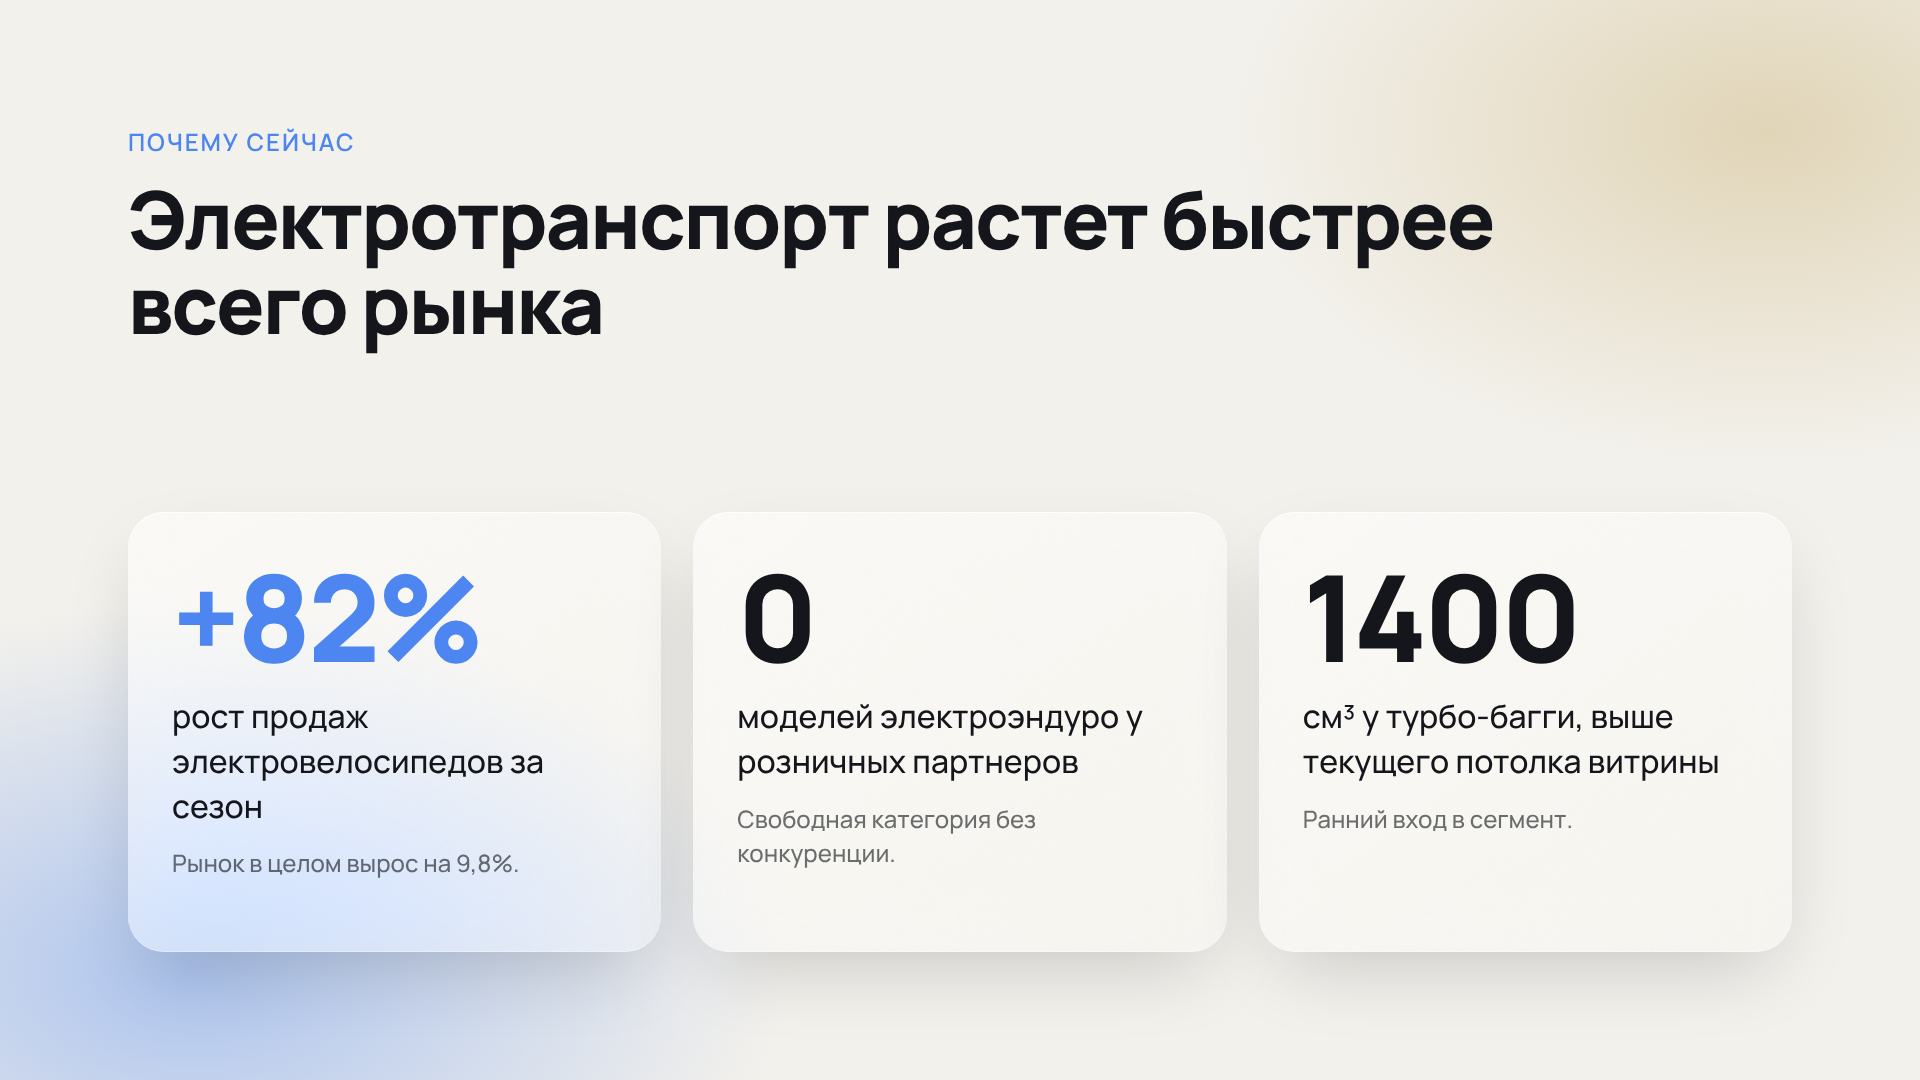
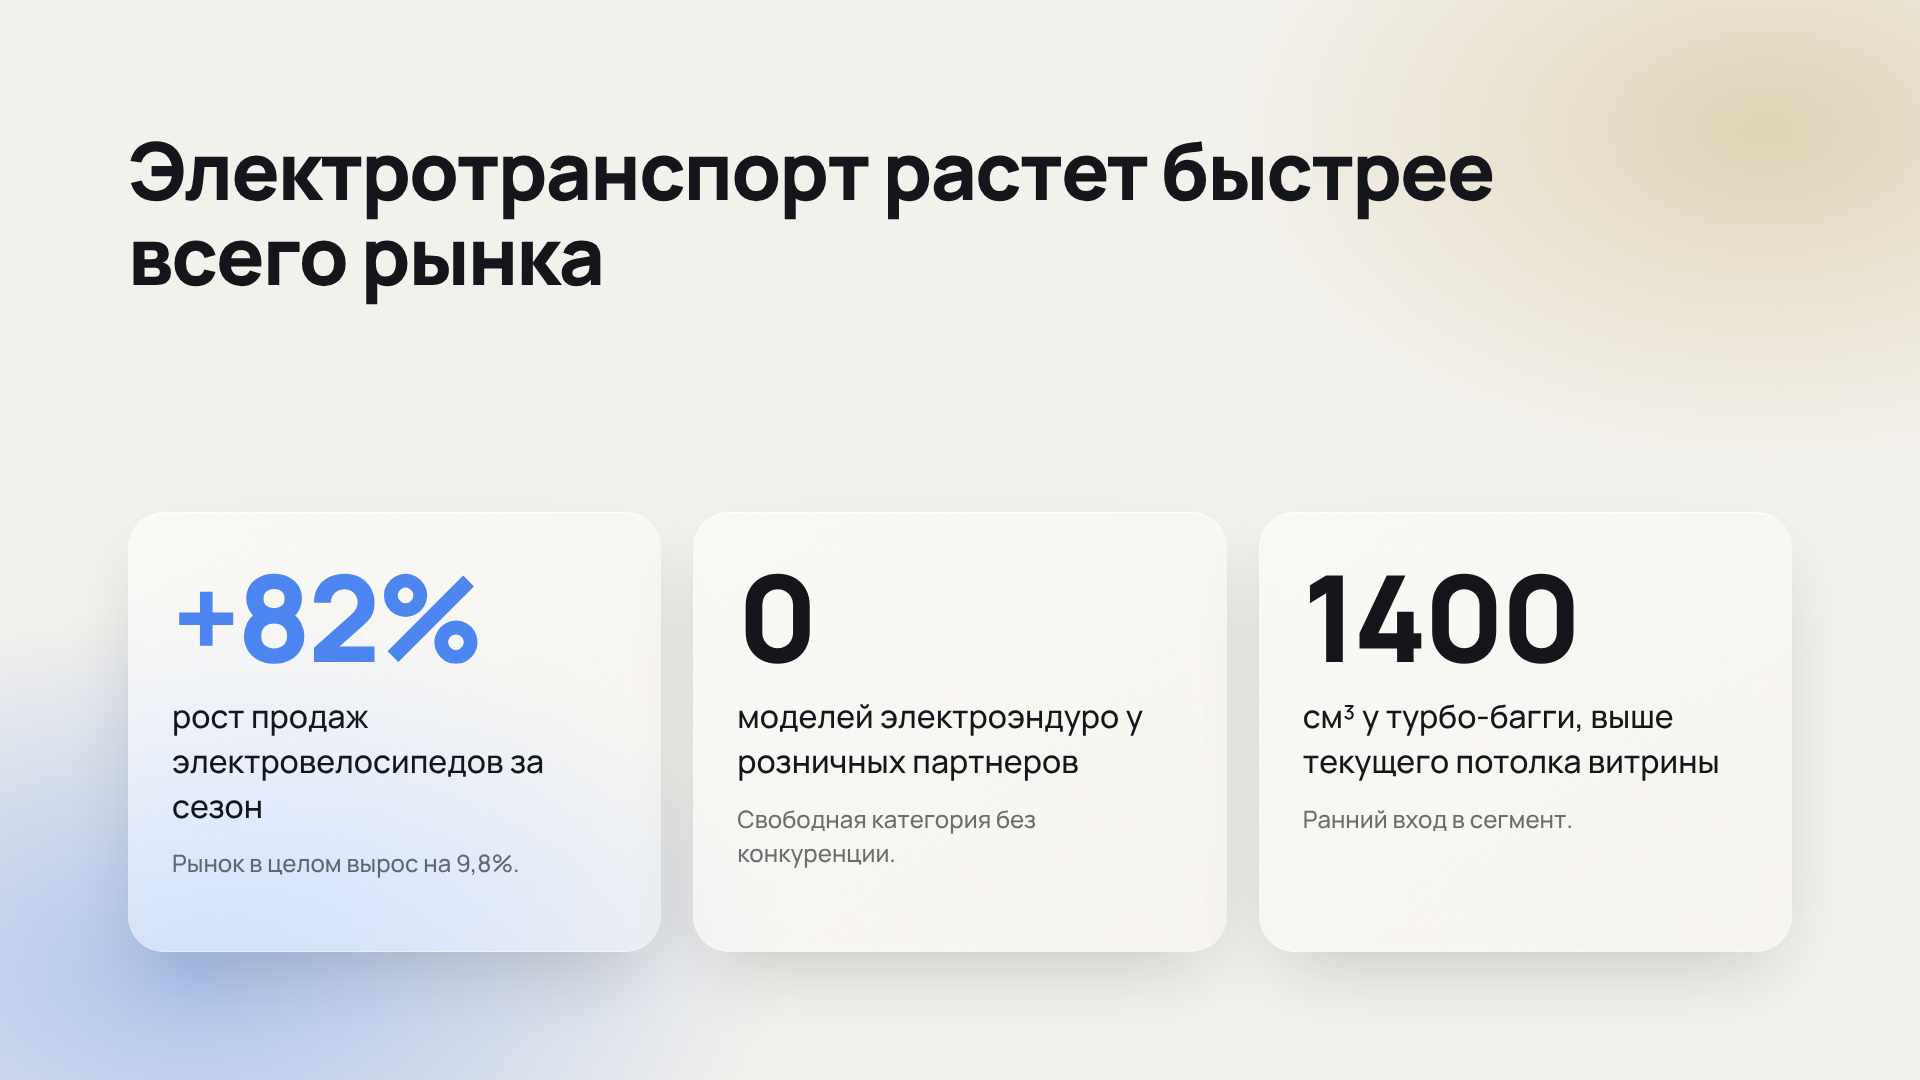
Референсы, правила против шаблонных приемов, проверка подписей капсом и строк через точки
Claude-Session: https://claude.ai/code/session_01EVK6ayWua7MPS1fDjw5zfW

Changed region(s): [[0.0625, 0.1222, 0.7812, 0.3361]]

diff --git a/examples/deck.html b/examples/deck.html
@@ -60,7 +60,6 @@
 <!-- 2. Метрики: три стеклянные карточки над цветной сеткой -->
 <section class="slide slide--light mesh-light metrics">
   <div>
-    <p class="label accent" style="margin-bottom:20px">Почему сейчас</p>
     <h2 class="h1" style="max-width:1400px">Электротранспорт растет быстрее всего рынка</h2>
   </div>
   <div class="cards">
@@ -74,7 +73,7 @@
 <section class="slide slide--dark mesh-dark product">
   <div class="pic" data-bleed><img class="photo" style="border-radius:0 var(--radius-outer) var(--radius-outer) 0" src="sample.jpg" alt="NICOT Z3"></div>
   <div class="glass panel">
-    <p class="label accent-soft">Городской электромотоцикл</p>
+    <p class="small muted-dark">Городской электромотоцикл</p>
     <h2 class="h1" style="font-size:64px">NICOT Z3</h2>
     <div class="body">
       <div class="spec"><span class="muted-dark">Мощность</span><span class="num">8,7&nbsp;кВт</span></div>

diff --git a/docs/references.md b/docs/references.md
@@ -1,0 +1,36 @@
+# Визуальные референсы и сборки
+
+Подобрано 9 октября 2026. Критерий: небольшие по размеру (текст, мелкий CSS/HTML),
+без сборки и тяжелых зависимостей. Читать целиком не нужно: берем по одному-два файла.
+
+## Брать (легкие)
+
+| Источник | Вес | Что взять |
+|---|---|---|
+| [anthropics/skills: frontend-design](https://github.com/anthropics/skills/blob/main/skills/frontend-design/SKILL.md) | один SKILL.md | Список признаков "сделано нейросетью": подпись капсом над каждым заголовком, строки через точки, градиентные заливки как декор, одинаковые карточки. Принцип: одна запоминающаяся деталь, остальное тихо. Уже учтено в анти-паттернах 21-27 |
+| [jiji262/claude-design-skill](https://github.com/jiji262/claude-design-skill) | markdown, 9 справочников, 6 стартовых HTML, MIT | Готовый `deck-stage.html` (масштаб, навигация, печать в PDF) и разбор слайдов. Можно сверять процесс и анти-слоп правила со своим навыком |
+| [VoltAgent/awesome-design-md](https://github.com/VoltAgent/awesome-design-md) | 73 брендов, MIT, в каждом DESIGN.md плюс HTML-превью | Брать выборочно 4-6 файлов `DESIGN.md` из `design-md/`: Apple (воздух, SF Pro, кинематографичные фото), Tesla и BMW (техника), Linear (точность), Stripe (легкие градиенты), Notion (теплый минимализм). Остальное не качать |
+| [kevinbism/liquid-glass-effect](https://github.com/kevinbism/liquid-glass-effect) | 3 файла, чистый CSS, MIT | Прием стекла: `backdrop-filter: blur() saturate(180%)`, полупрозрачный фон, inset-тень, `drop-shadow` на псевдоэлементе. Совпадает с нашим `glass.css` |
+| [Mael-667/Liquid-Glass-CSS](https://github.com/Mael-667/Liquid-Glass-CSS) | малая библиотека без зависимостей | Вариант с SVG-фильтром и регулировкой размытия, сравнить с нашей реализацией |
+
+## Смотреть только для понимания (Chromium, тяжелее)
+
+- [nikdelvin/liquid-glass](https://github.com/nikdelvin/liquid-glass): точная имитация iOS 26 через SVG-карты смещения. Работает только в Chromium, в Safari откатывается к размытию. Для статичных слайдов избыточно.
+
+## Не брать (тяжело или не подходит)
+
+- [naughtyduk/liquidGL](https://github.com/naughtyduk/liquidGL): шейдеры WebGL/WebGPU, тяжелый рендер.
+- [xjli360/awesome-design-md-ecommerce](https://github.com/xjli360/awesome-design-md-ecommerce): заявлено 1632 бренда, огромная и не про презентации.
+- Темы Slidev, Marp, reveal.js: нужна сборка и node-цепочка, а у нас HTML + Playwright уже есть.
+
+## Не проверено (видел только в выдаче поиска)
+
+[bitjaru/styleseed](https://github.com/bitjaru/styleseed), [Owl-Listener/designer-skills](https://github.com/owl-listener/designer-skills),
+[wilwaldon/Claude-Code-Frontend-Design-Toolkit](https://github.com/wilwaldon/Claude-Code-Frontend-Design-Toolkit).
+Перед использованием открыть и оценить размер и качество.
+
+## Как использовать
+
+1. Не клонировать целиком. Для VoltAgent: `git clone --depth 1 --filter=blob:none --sparse`, затем `git sparse-checkout set design-md/apple design-md/tesla` и т.д.
+2. Брать из референса принципы и токены, не копировать чужую идентику.
+3. Любой заимствованный прием проходит через `lint-deck.mjs` и проверку глазами.

diff --git a/skills/presentation-design/references/anti-patterns.md b/skills/presentation-design/references/anti-patterns.md
@@ -24,6 +24,13 @@
 | 18 | Белый текст на светлом стекле | Контраст ниже 3:1 | Тонировать стекло, менять режим слайда |
 | 19 | Выравнивание по центру для всего подряд | Нет линии взгляда | Левый край, центр только на обложке и финале |
 | 20 | Серые холодные тексты на теплом фоне | Грязь | Прозрачность основного цвета |
+| 21 | Подпись КАПСОМ с трекингом над каждым заголовком (эйбрау) | Главный шаблонный признак: ничего не сообщает, только украшает | Максимум 1-2 на колоду, и только если подпись несет информацию (раздел, номер шага) |
+| 22 | Строки вида "А · Б · В" через точки, "СЛОВО – фрагмент", "→" в конце ссылок | Шаблонный мета-стиль | Нормальные предложения или отдельные строки |
+| 23 | Одно слово курсивом или цветом в заголовке | Дежурный прием | Заголовок одним цветом, акцент на другом элементе |
+| 24 | Герой "большое число + мелкая подпись + акцентный градиент" как дефолт | Первое, что делает любая модель | Только если цифры действительно главное. Иначе фото или фраза |
+| 25 | Одинаковый радиус, одинаковая серая тень и обводка на всех карточках | Нет иерархии | Радиус и глубина зависят от важности |
+| 26 | Нумерация 01/02/03 там, где нет последовательности | Декор вместо смысла | Нумеровать только реальные шаги |
+| 27 | Анимация на каждый блок | Выглядит как автоматика | Одно осмысленное движение или ни одного |
 
 ## Чек-лист перед отправкой
 

diff --git a/skills/presentation-design/SKILL.md b/skills/presentation-design/SKILL.md
@@ -21,7 +21,8 @@ description: Дизайн презентаций, КП, офферов и пит
 5. Стекло в стекле запрещено. Жесткая рамка 1px у стекла запрещена: только световая кромка (inset).
 6. Никаких заглушек в квадратных скобках в готовом файле. Нет данных: убери блок, а не оставляй `[модель]`.
 7. Текст не меньше 24px на холсте 1920x1080. Один слайд: одна мысль и один главный акцент.
-8. Фото с белым фоном не кладут белой коробкой на цветной слайд: вырежи фон, либо поставь на нейтральную панель целиком, либо выбери другое фото.
+8. Подпись КАПСОМ над каждым заголовком, строки через точки, одно выделенное слово в заголовке, нумерация без последовательности: шаблонные признаки нейросети (см. пункты 21-27 анти-паттернов).
+9. Фото с белым фоном не кладут белой коробкой на цветной слайд: вырежи фон, либо поставь на нейтральную панель целиком, либо выбери другое фото.
 
 ## Рабочий процесс
 

diff --git a/README.md b/README.md
@@ -23,6 +23,7 @@
 | `examples/bad-deck.html` | Антипример: на нем линтер обязан выдать ошибки |
 | `tools/lint-deck.mjs` | Проверка колоды на анти-паттерны (шрифты, рамки, трекинг, стекло в стекле, ё, длинные тире, заглушки) |
 | `tools/render.mjs` | Рендер в PDF и PNG каждого слайда |
+| `docs/references.md` | Легкие внешние референсы и сборки: что брать, что нет |
 
 ## Установка навыка
 
